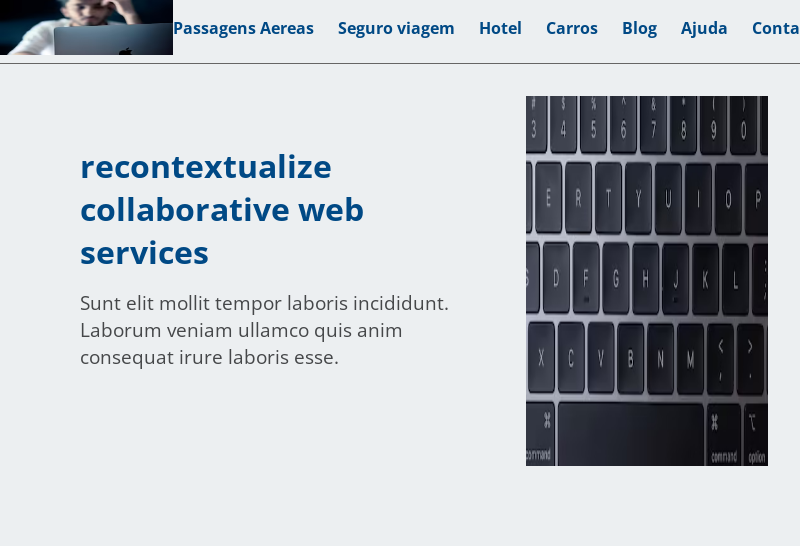
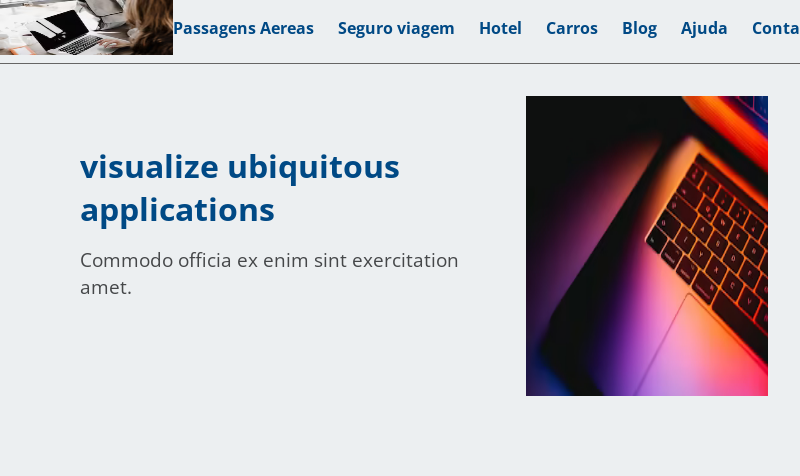
add resize

diff --git a/.slicemachine/assets/slices/MainBannerFrame/index.stories.js b/.slicemachine/assets/slices/MainBannerFrame/index.stories.js
@@ -5,5 +5,5 @@ export default {
 }
 
 
-export const _DefaultSlice = () => <MyComponent slice={{"variation":"default-slice","name":"Default slice","slice_type":"main_banner_frame","items":[],"primary":{"headerImage":{"dimensions":{"width":900,"height":500},"alt":"Placeholder image","copyright":null,"url":"https://images.unsplash.com/photo-1587905069134-008460d7a636?w=900&h=500&fit=crop"},"bannerImage":{"dimensions":{"width":900,"height":500},"alt":"Placeholder image","copyright":null,"url":"https://images.unsplash.com/photo-1607582278038-6bebbd4d7b72?w=900&h=500&fit=crop"},"bannerTitle":"recontextualize collaborative web services","bannerText":[{"type":"paragraph","text":"Sunt elit mollit tempor laboris incididunt. Laborum veniam ullamco quis anim consequat irure laboris esse.","spans":[]}],"defaultSearch":"PASSAGEM","background":"synthesize 24/365 e-commerce"},"id":"_DefaultSlice"}} />
+export const _DefaultSlice = () => <MyComponent slice={{"variation":"default-slice","name":"Default slice","slice_type":"main_banner_frame","items":[],"primary":{"headerImage":{"dimensions":{"width":900,"height":500},"alt":"Placeholder image","copyright":null,"url":"https://images.unsplash.com/photo-1491975474562-1f4e30bc9468?w=900&h=500&fit=crop"},"bannerImage":{"dimensions":{"width":900,"height":500},"alt":"Placeholder image","copyright":null,"url":"https://images.unsplash.com/photo-1525547719571-a2d4ac8945e2?w=900&h=500&fit=crop"},"bannerTitle":"visualize ubiquitous applications","bannerText":[{"type":"paragraph","text":"Commodo officia ex enim sint exercitation amet.","spans":[]}],"background":"monetize open-source architectures"},"id":"_DefaultSlice"}} />
 _DefaultSlice.storyName = 'Default slice'

diff --git a/slices/SearchFrame/index.tsx b/slices/SearchFrame/index.tsx
@@ -1,7 +1,19 @@
 import { SearchFrame as SearchFrameLib } from "@amopromo/searchframe";
+import { useEffect, useState } from "react";
 import styles from "./index.module.scss";
 
 const SearchFrame = ({ slice }: SearchFrameSlice) => {
+  const [width, setWidth] = useState(1000);
+  const breakpoint = 640;
+  const smallScreen = width < breakpoint;
+
+  useEffect(() => {
+    setWidth(window.innerWidth);
+    window.addEventListener("resize", () => {
+      setWidth(window.innerWidth);
+    });
+  }, []);
+
   return (
     <div
       style={{
@@ -16,7 +28,7 @@ const SearchFrame = ({ slice }: SearchFrameSlice) => {
           elquarto: slice.primary.elquartoTitle,
           seguro: slice.primary.seguroTitle,
         }}
-        size="WIDE"
+        size={smallScreen ? "THIN" : "WIDE"}
         elquartoSearchUrl=""
         passagemSearchUrl=""
         segurosSearchUrl=""

diff --git a/slices/MainBannerFrame/index.tsx b/slices/MainBannerFrame/index.tsx
@@ -1,21 +1,8 @@
-import { SearchFrame } from "@amopromo/searchframe";
 import Image from "next/image";
 import { RichText } from "prismic-reactjs";
-import { useEffect, useState } from "react";
 import styles from "./index.module.scss";
 
 const MainBannerFrame = ({ slice }: MainBannerFrameSlice) => {
-  const [width, setWidth] = useState(1000);
-  const breakpoint = 640;
-  const smallScreen = width < breakpoint;
-
-  useEffect(() => {
-    setWidth(window.innerWidth);
-    window.addEventListener("resize", () => {
-      setWidth(window.innerWidth);
-    });
-  }, []);
-
   return (
     <div
       style={{
